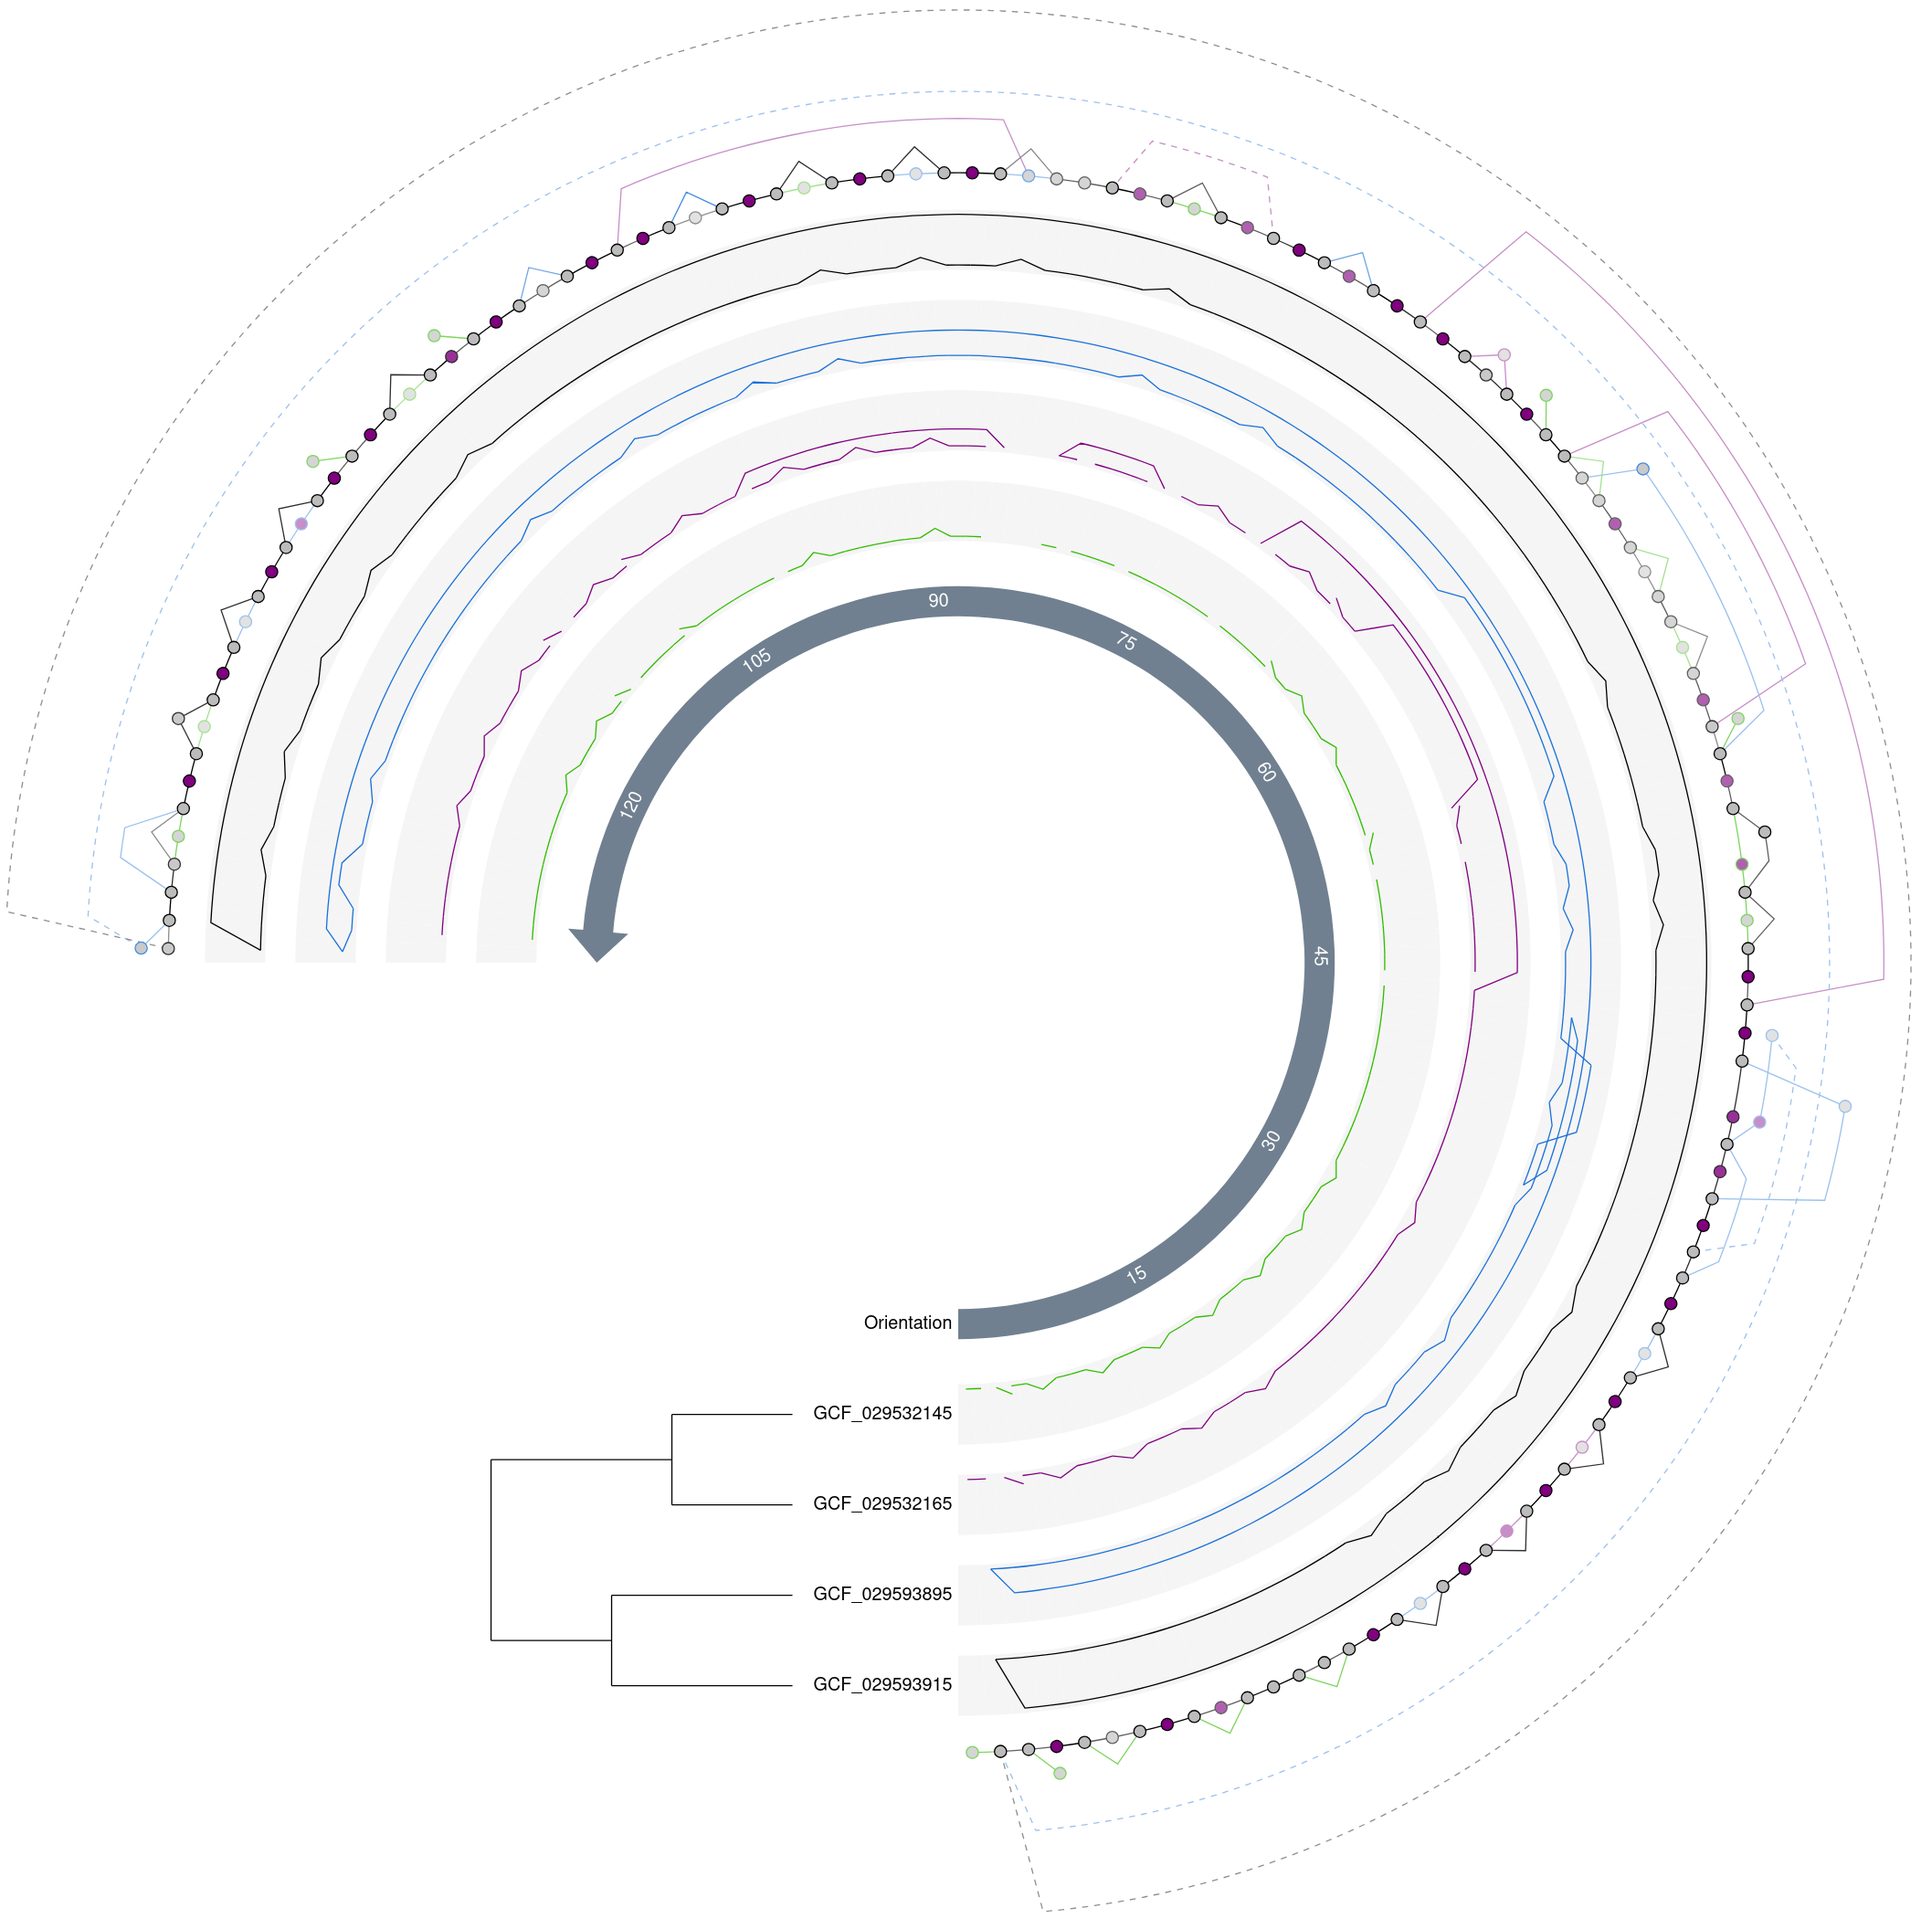
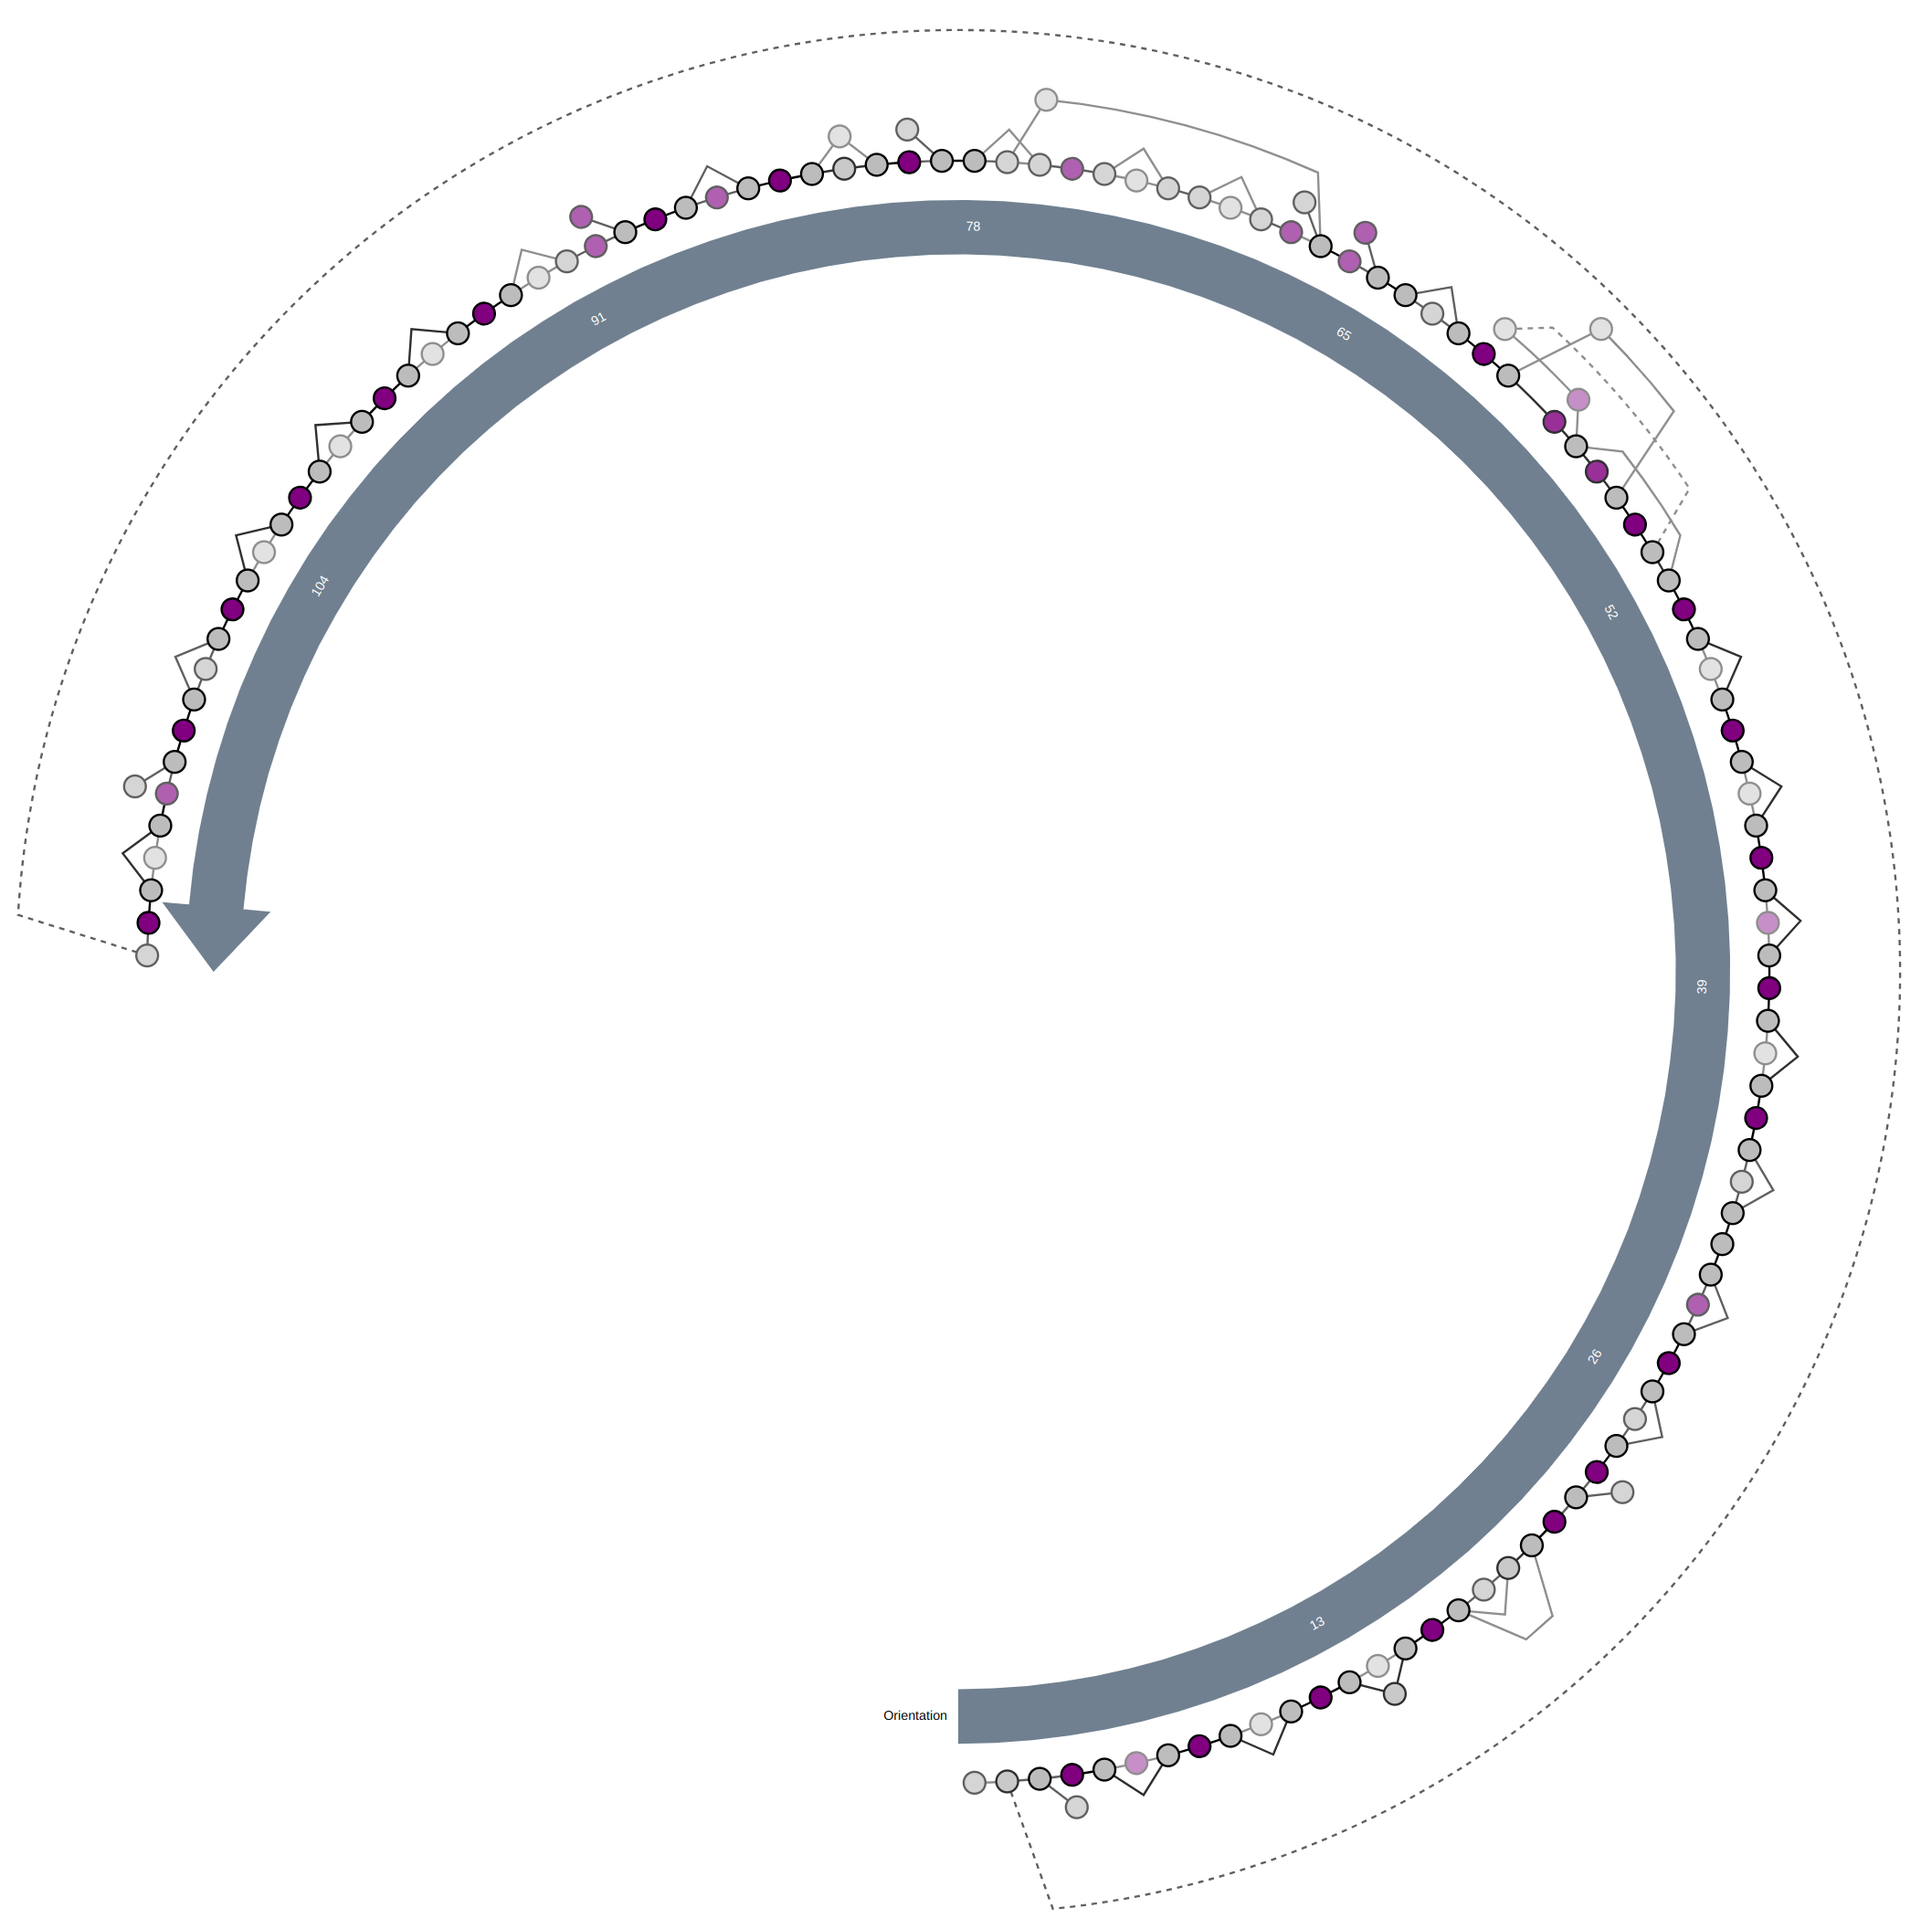
Update: changed pictures and text

diff --git a/_posts/anvio/2024-07-10-pangenome-graphs.md b/_posts/anvio/2024-07-10-pangenome-graphs.md
@@ -138,6 +138,8 @@ config.yaml:
 anvi-run-workflow -w pangenomics -c config.yaml
 ```
 
+[![First pangenome]({{site.url}}/images/anvio/2024-07-10-pangenome-graphs/Figure_1.png)]({{site.url}}/images/anvio/2024-07-10-pangenome-graphs/Figure_1.png){:.center-img .width-80}
+
 /path/to/\
 &nbsp;&nbsp;&nbsp;&nbsp;&nbsp;&nbsp;&nbsp;&nbsp;├── 00_LOGS\
 &nbsp;&nbsp;&nbsp;&nbsp;&nbsp;&nbsp;&nbsp;&nbsp;&nbsp;&nbsp;&nbsp;&nbsp;&nbsp;&nbsp;&nbsp;&nbsp;└── ...\
@@ -169,3 +171,7 @@ anvi-run-workflow -w pangenomics -c config.yaml
 anvi-pan-graph -p 03_PAN/SAR202_Group_1-PAN.db -g 03_PAN/SAR202_Group_1-GENOMES.db -e external-genomes.txt --output-file SAR202_Group_1-JSON.json
 anvi-display-pan-graph -p 03_PAN/SAR202_Group_1-PAN.db -g 03_PAN/SAR202_Group_1-GENOMES.db --pan-graph-json SAR202_Group_1-JSON.json
 ```
+
+[![First pangenome graph]({{site.url}}/images/anvio/2024-07-10-pangenome-graphs/Figure_2.png)]({{site.url}}/images/anvio/2024-07-10-pangenome-graphs/Figure_2.png){:.center-img .width-80}
+
+[![Final pangenome graph]({{site.url}}/images/anvio/2024-07-10-pangenome-graphs/Figure_3.png)]({{site.url}}/images/anvio/2024-07-10-pangenome-graphs/Figure_3.png){:.center-img .width-80}
